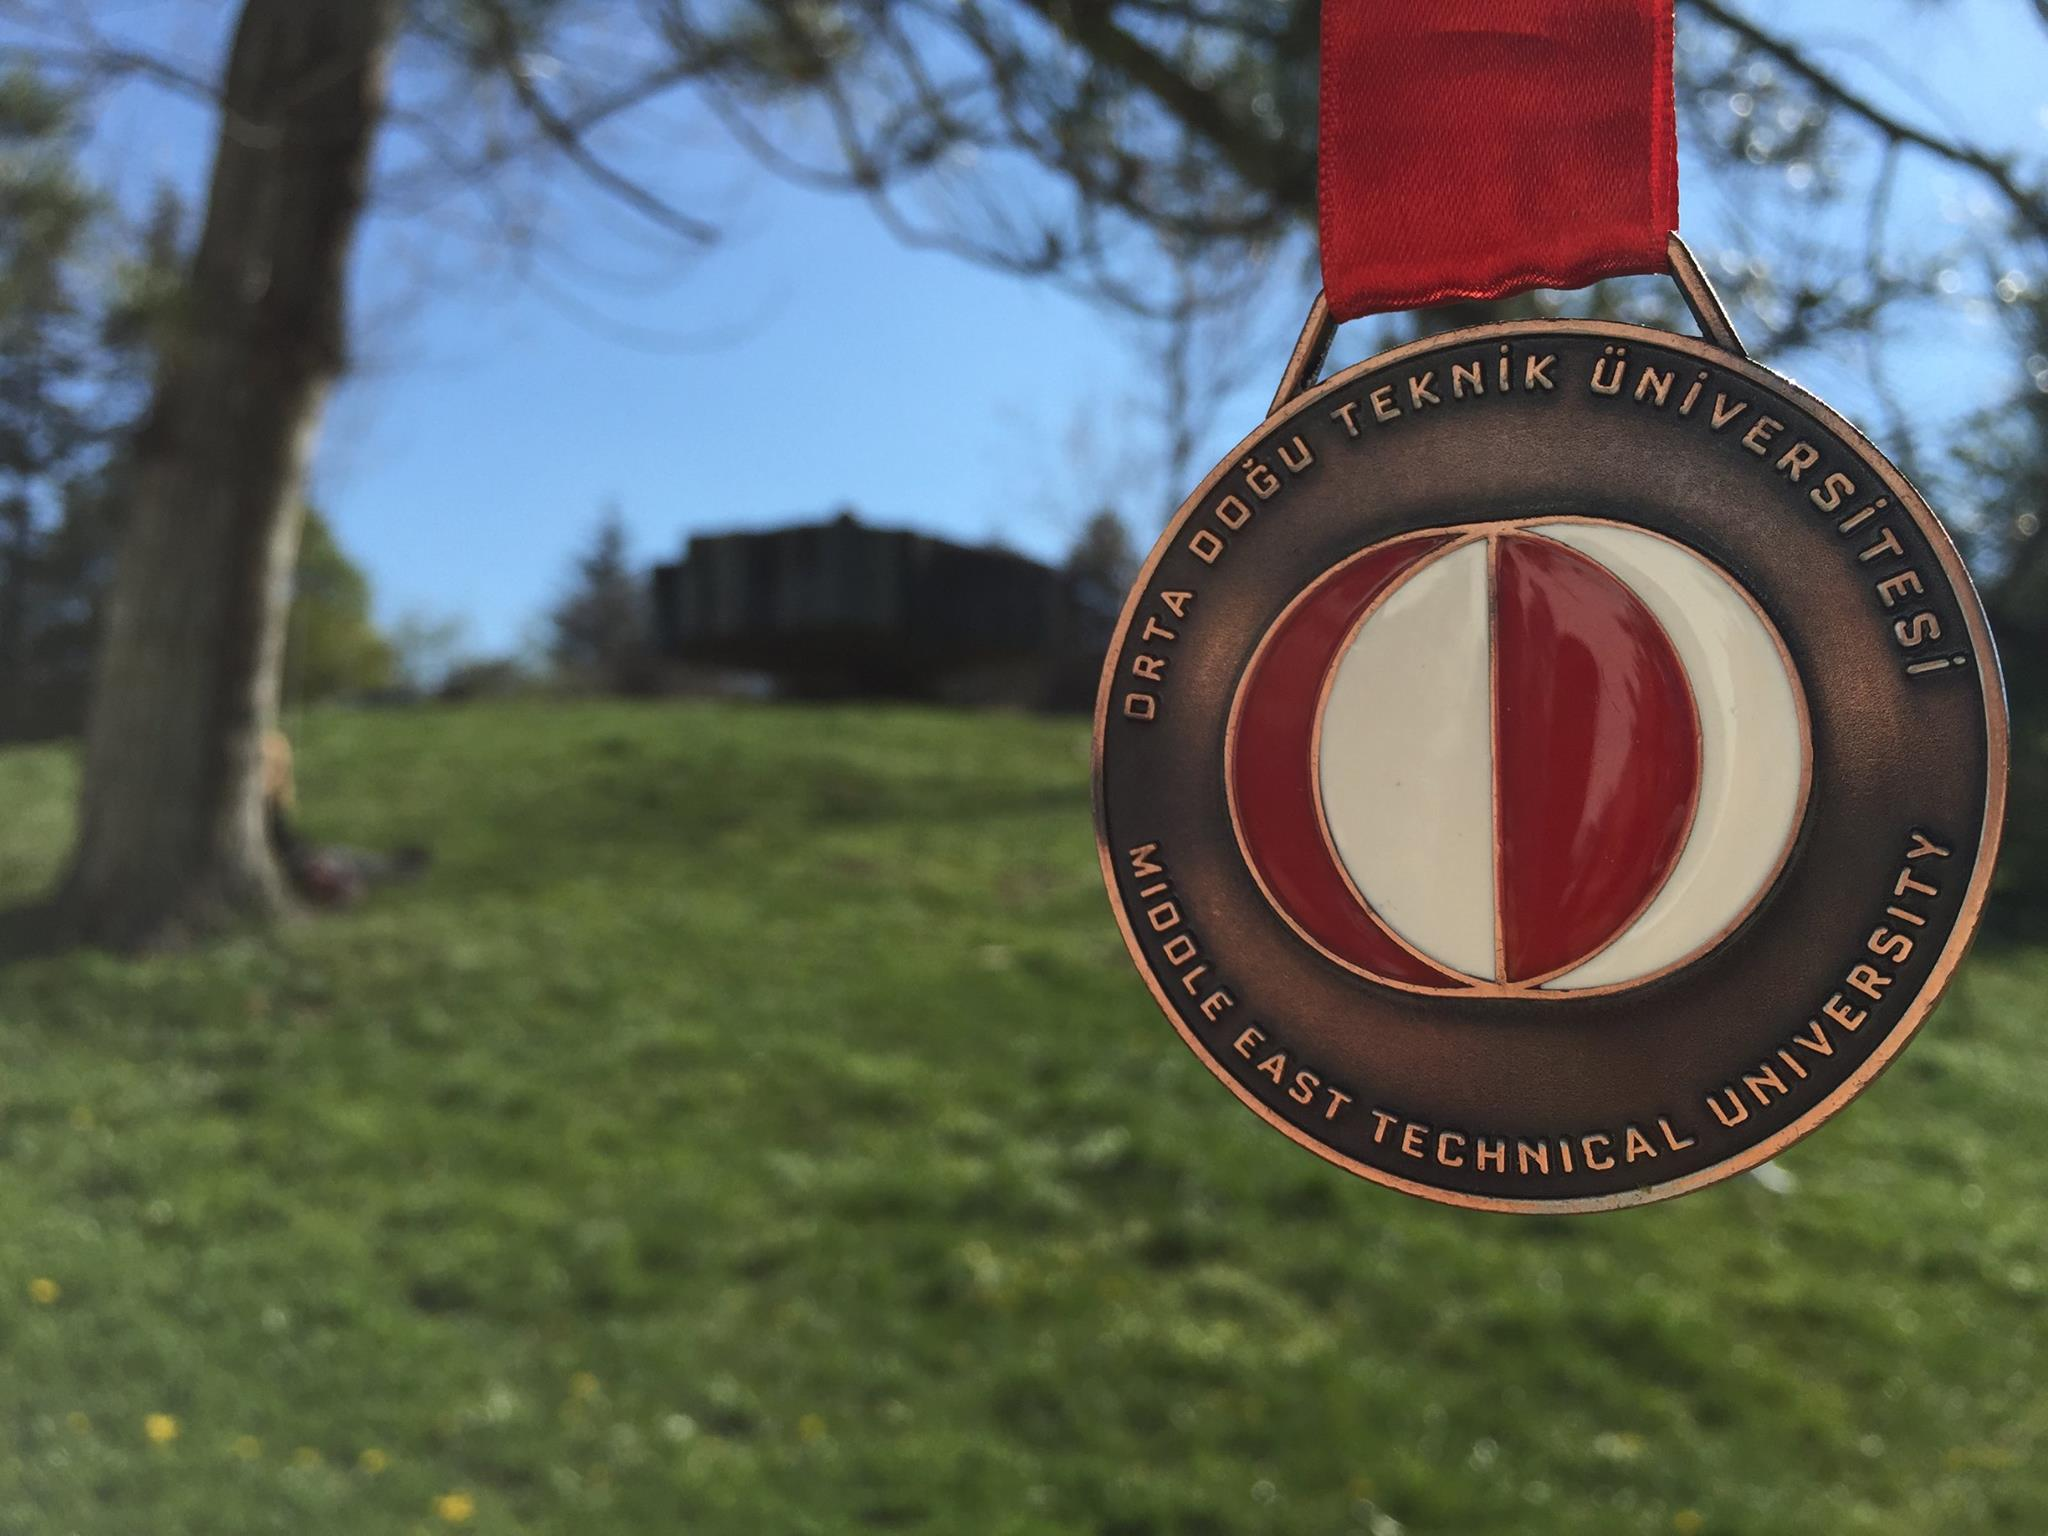
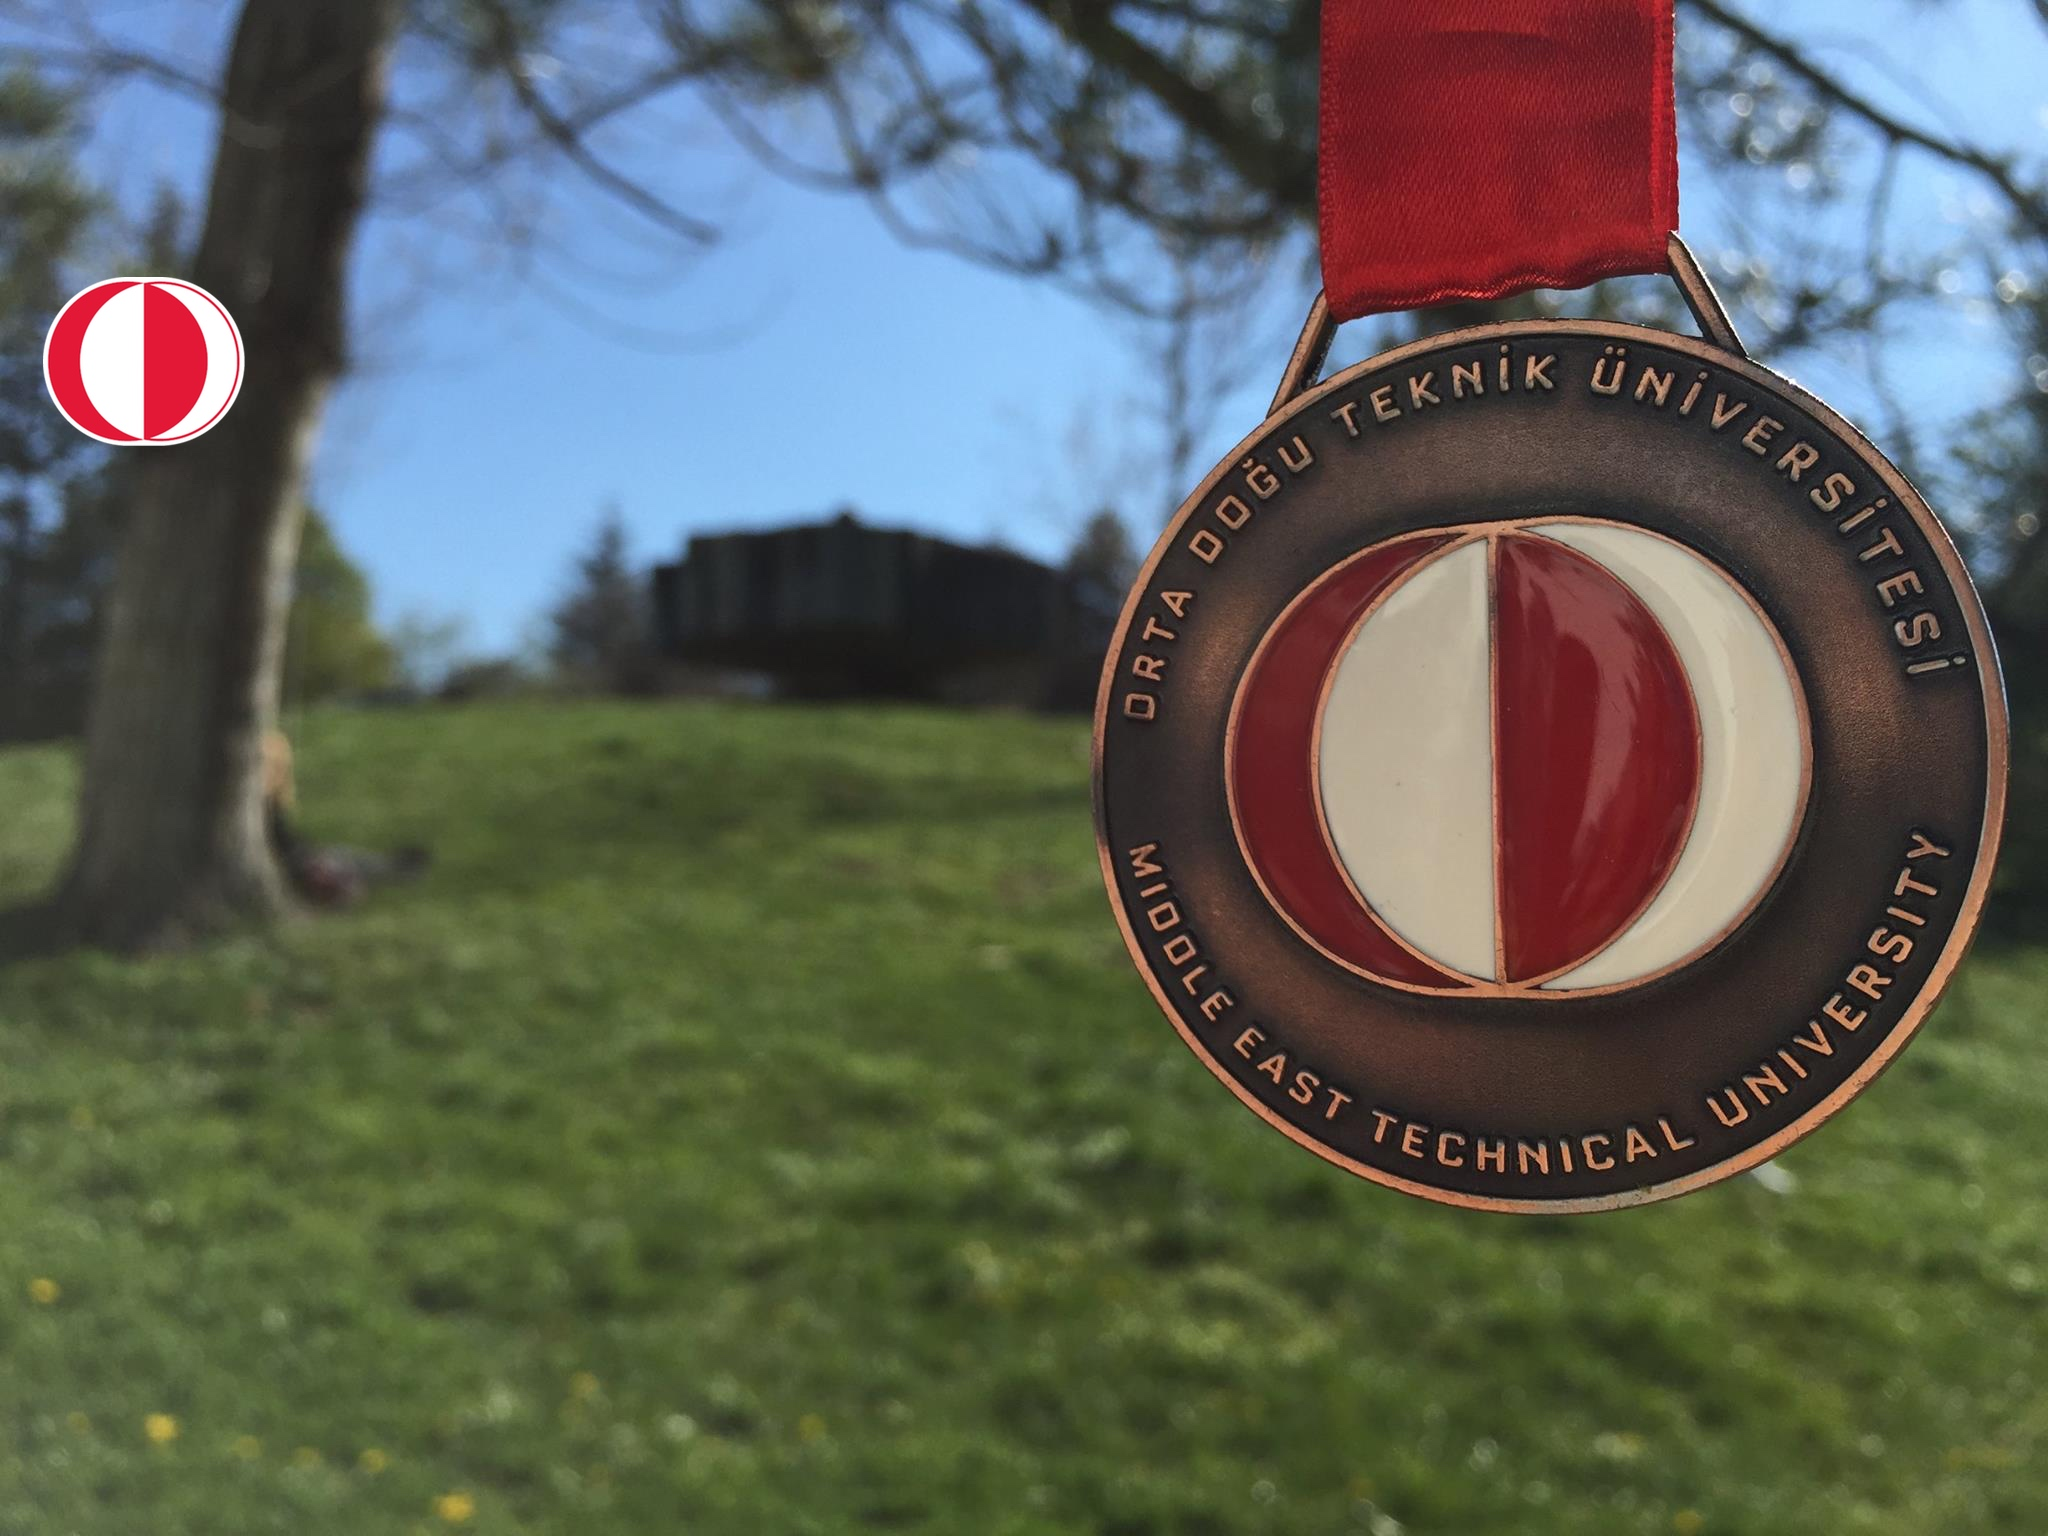
Enhance images

Changed region(s): [[0.0, 0.1562, 0.125, 0.3125]]

diff --git a/index.html b/index.html
@@ -92,7 +92,7 @@
                       2002 tarihinde kuruldu. Misyonu: İngiltere'de yaşayan ODTÜ mezunlarının birbirleri ile haberleşmelerini sağlamak, ODTÜ Burs fonuna yardımda bulunmak.
                       Eger ODTÜ mezunu iseniz ve İngiltere'de yaşıyorsanız bize katılın.
                     </p>
-                    <a href="http://groups.yahoo.com/group/metu-uk" class="btn btn-default btn-xl">Bize Katilin!</a>
+                    <a href="http://groups.yahoo.com/group/metu-uk" class="btn btn-default btn-xl">Bİze Katilin!</a>
                 </div>
             </div>
         </div>
@@ -206,6 +206,10 @@
     <section id="contact">
         <div class="container">
             <div class="row">
+              <div class="col-lg-2 col-lg-offset-5 text-center">
+                  <img src="img/md.png" class="img-responsive" alt="">
+              </div>
+
                 <div class="col-lg-8 col-lg-offset-2 text-center">
                     <h2 class="section-heading">Bize Ulaşmak İçin!</h2>
                     <hr class="primary">
